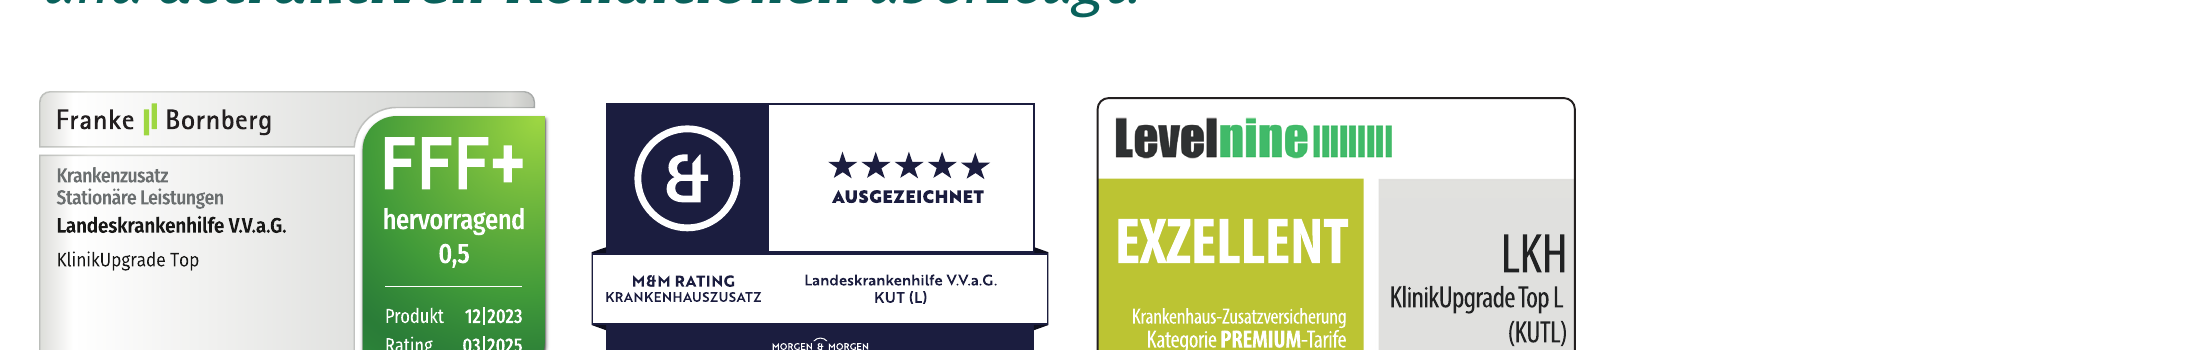
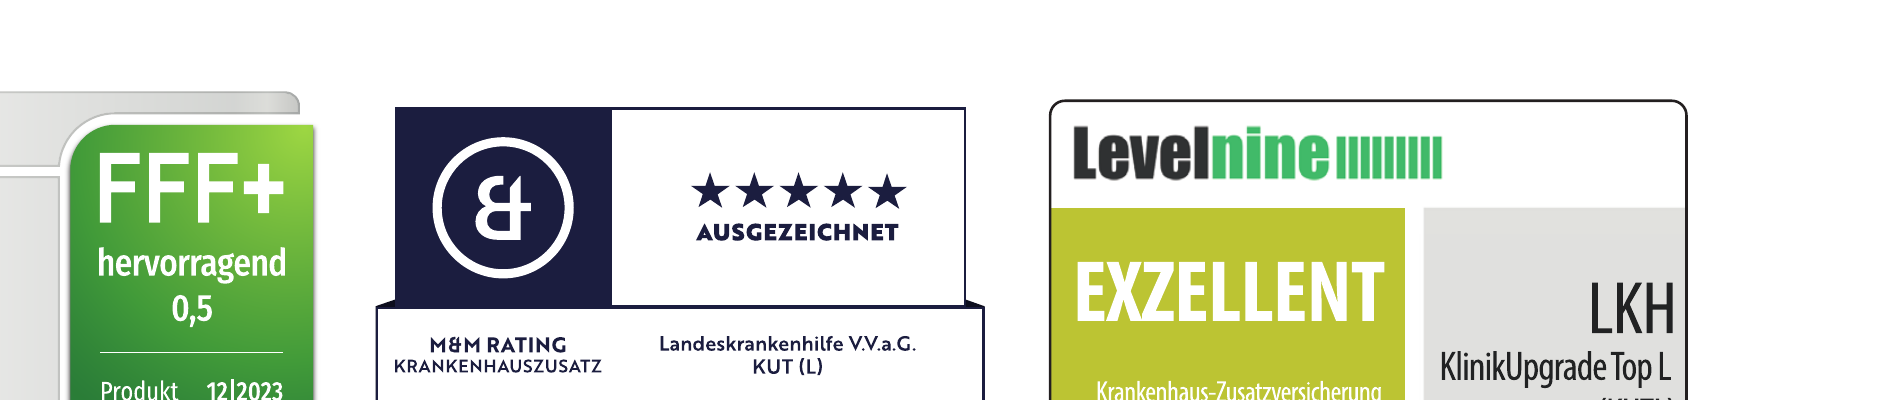
fix: Stationär-Seite Siegel sauber zugeschnitten + Mobile-Optimierung
- Siegel-Bild: Whitespace rechts entfernt, zentriert auf Mobile
- GOÄ-Text in Tarifkarte gekürzt (passt jetzt in den Rahmen)
- Tarifkarte: whitespace-nowrap entfernt, Text bricht sauber um
- Mobile: Alle Sektionen geprüft und responsive

diff --git a/src/components/sections/HospitalConcept.jsx b/src/components/sections/HospitalConcept.jsx
@@ -12,7 +12,7 @@ const HospitalConcept = () => {
               KlinikUpgrade Top – Privatpatient im Krankenhaus
             </h2>
             <p className="text-lg text-slate-600 max-w-3xl mx-auto">
-              Einbettzimmer, Chefarztbehandlung, freie Krankenhauswahl. Keine Begrenzung auf die Gebührenordnung. Erstattung auch über dem 3,5-fachen Satz der GOÄ möglich.
+              Einbettzimmer, Chefarztbehandlung, freie Krankenhauswahl. Keine Begrenzung auf die Gebührenordnung für Ärzte (GOÄ).
             </p>
           </div>
 
@@ -40,15 +40,15 @@ const HospitalConcept = () => {
                 ["Rooming-In (Kinder unter 14)", "Ja"],
                 ["Familienzimmer bei Entbindung", "Ja"],
                 ["Privatärztliche Behandlung", "Chefarzt, Spezialisten, Belegarzt"],
-                ["Gebührenordnung", "Keine Begrenzung (über 3,5-fach GOÄ)"],
+                ["Gebührenordnung", "Keine Begrenzung"],
                 ["Ambulante OPs im Krankenhaus", "Ja"],
                 ["Vor- und nachstationäre Behandlung", "Ja"],
                 ["Ersatz-Krankenhaustagegeld", "Bis zu 100 €/Tag"],
                 ["Keine allgemeine Wartezeit", "Ja"],
               ].map(([label, value], i) => (
-                <div key={i} className="flex justify-between py-2 border-b border-gray-50">
-                  <span className="text-slate-600">{label}</span>
-                  <span className="font-semibold text-slate-900 text-right whitespace-nowrap ml-4">{value}</span>
+                <div key={i} className="flex justify-between items-start py-2 border-b border-gray-50 gap-4">
+                  <span className="text-slate-600 flex-shrink-0">{label}</span>
+                  <span className="font-semibold text-slate-900 text-right">{value}</span>
                 </div>
               ))}
             </div>

diff --git a/src/pages/StationaerPage.jsx b/src/pages/StationaerPage.jsx
@@ -132,7 +132,7 @@ const StationaerPage = () => {
         <section className="py-10 bg-white border-b border-gray-100">
           <div className="healio-container px-4">
             <p className="text-center text-xs text-slate-400 mb-6 font-medium uppercase tracking-wider">Ausgezeichnet von unabhängigen Testern</p>
-            <motion.div initial={{ opacity: 0, y: 10 }} whileInView={{ opacity: 1, y: 0 }} viewport={{ once: true }} className="max-w-3xl mx-auto">
+            <motion.div initial={{ opacity: 0, y: 10 }} whileInView={{ opacity: 1, y: 0 }} viewport={{ once: true }} className="max-w-xl mx-auto px-4">
               <img src="/siegel/klinik-siegel.png" alt="Qualitätssiegel: Franke & Bornberg FFF+ hervorragend, Morgen & Morgen Ausgezeichnet, LevelNine Exzellent" className="w-full h-auto" loading="lazy" />
             </motion.div>
           </div>
